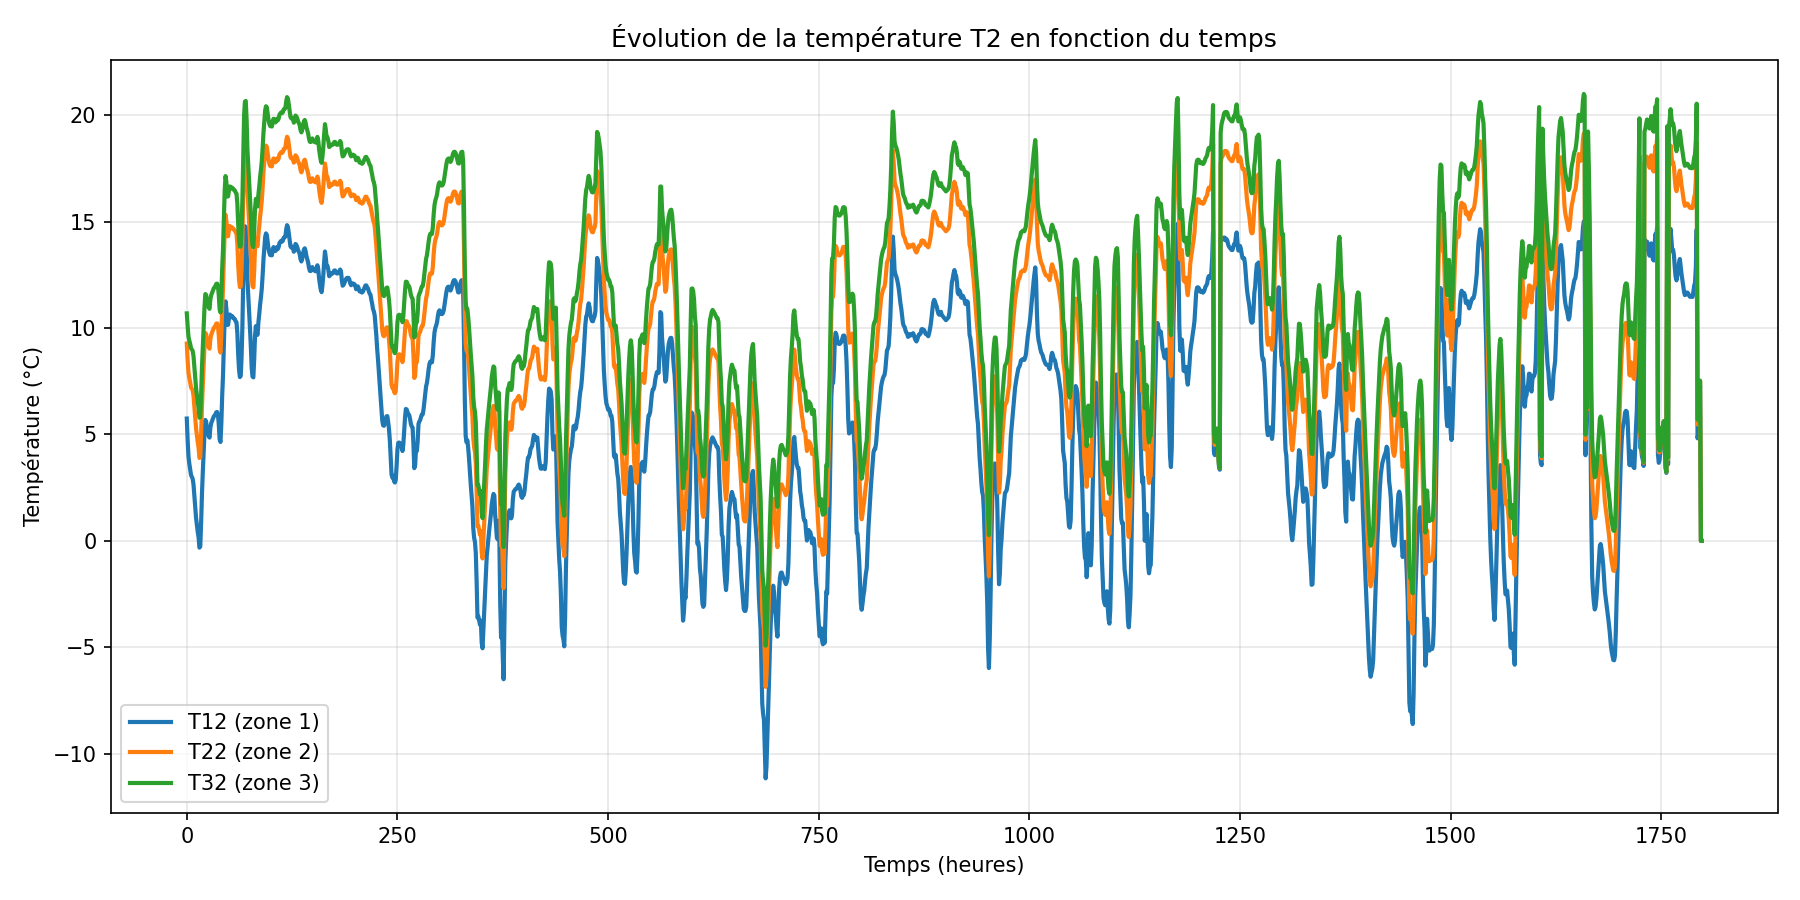
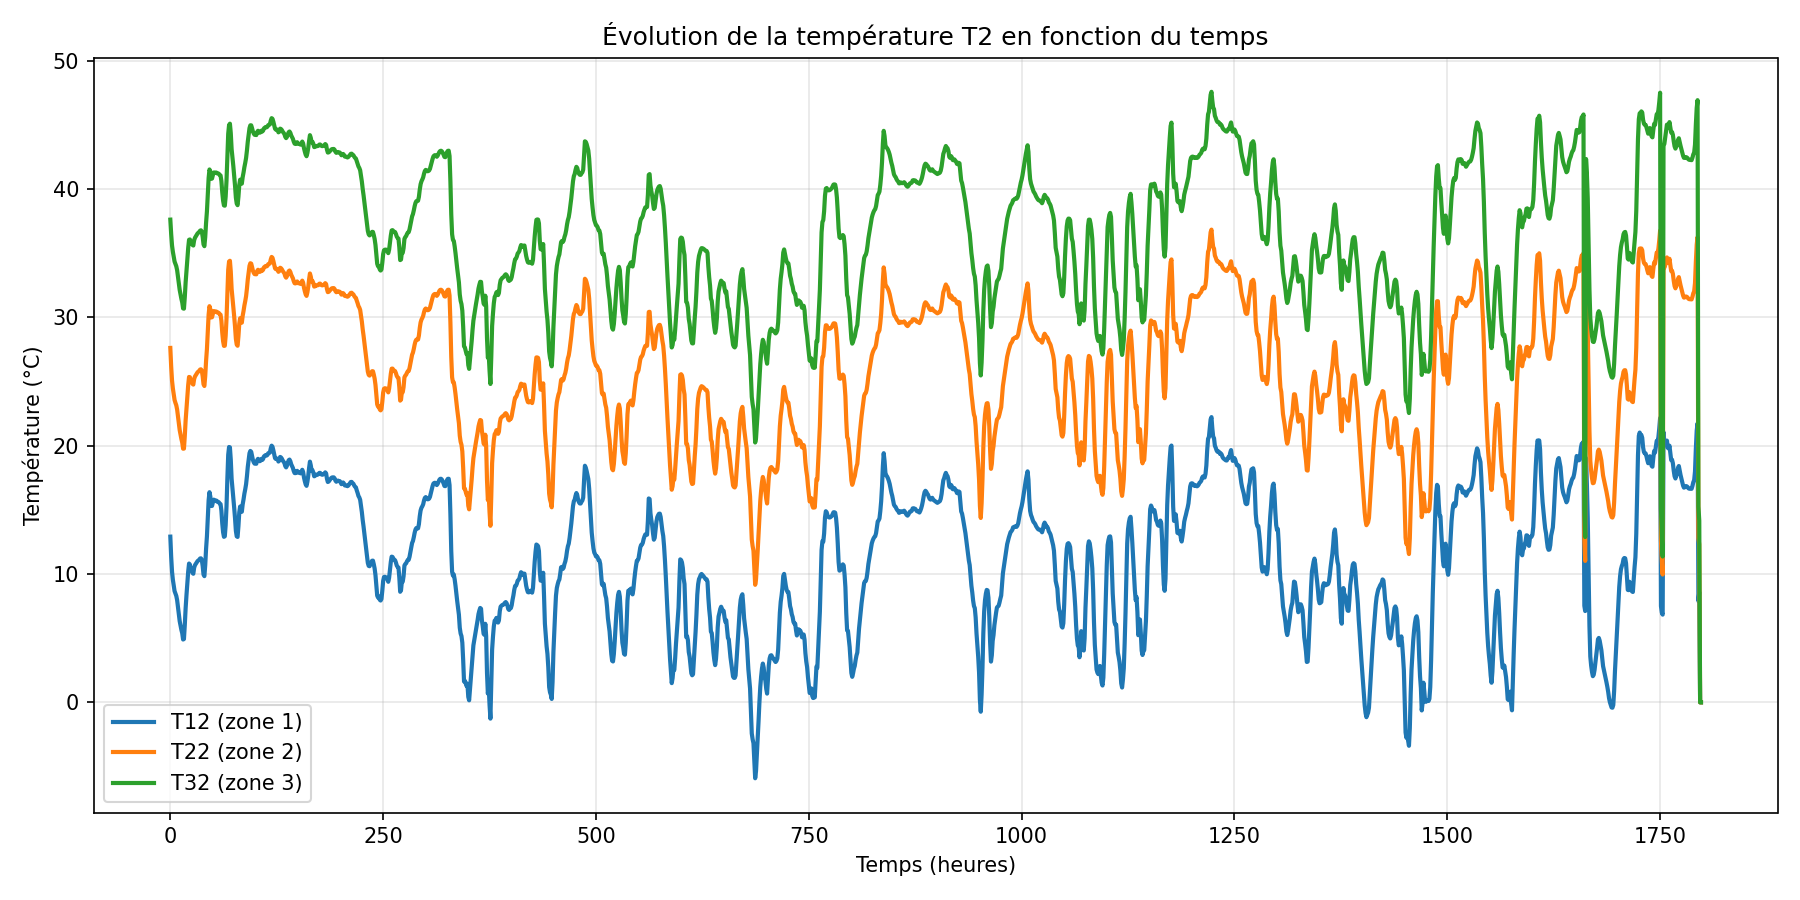
simulation v11

diff --git a/Simulation.py b/Simulation.py
@@ -1,11 +1,16 @@
-import matplotlib.pyplot as plt
-import pandas as pd
-import numpy as np
-from datetime import datetime
-
-# Utiliser un backend non-interactif pour éviter les problèmes
 import matplotlib
 matplotlib.use('Agg')
+import matplotlib.pyplot as plt
+import numpy as np
+import pandas as pd
+import gc
+import os
+
+# Supprimer les anciens graphiques
+if os.path.exists('T2_vs_temps.png'):
+    os.remove('T2_vs_temps.png')
+
+gc.collect()
 
 # Paramètres physiques
 Long = 26.1  # m
@@ -15,7 +20,7 @@ Haut = 1.7   # m
 unite1 = Long / 32
 unite2 = larg / 4
 
-cp = 1007        # J/kgK
+cp = 1007  # J/kgK
 e_dalle = 18 / 1000  # m
 A_section = larg * Long / 3
 e_beton = 0.4
@@ -24,10 +29,11 @@ A_mur12 = Haut * (20 * unite1 + 10 * unite2)
 A_mur34 = Haut * (22 * unite1 + 8 * unite2)
 A_mur56 = Haut * (22 * unite1 + 10 * unite2)
 
-k_beton = 1.8   # W/mK
-h_air = 30      # W/m2K
-k_asph = 1.0    # W/mK
-k_acier = 50    # W/mK
+k_beton = 1.8  # W/mK
+h_air = 10     # W/m2K
+
+k_asph = 1.0   # W/mK
+k_acier = 50   # W/mK
 k_dalle = (8 * k_asph + 10 * k_acier) / 18
 
 C_vol = 2300 * 880  # J/m3K
@@ -61,11 +67,12 @@ T = np.zeros((nt - 1, 9))
 
 # Initialiser T avec une température de départ (20°C)
 for i in range(9):
-    T[0, i] = T_ext[0]
-    T[1, i] = T_ext[0]
+    T[0, i] = 35
+    T[1, i] = 35
 
 # Résolution
 for t in range(2, nt - 1):
+
     # Calculer les résistances à chaque itération
     Rcond = e_dalle / (k_dalle * A_section)
     Rconv = 1 / (h_air * A_section)
@@ -78,7 +85,7 @@ for t in range(2, nt - 1):
     Req2 = R_beton2 + 1 / (h_air * A_mur34)
     Req3 = R_beton3 + 1 / (h_air * A_mur56)
 
-    if T_ext[t] < 3:
+    if T_ext[t] < 5:
         q12 = q_heater_r + 2 * q_heater_b
         q34 = q_heater_r + q_heater_b
         q56 = q_heater_r + q_heater_b
@@ -98,31 +105,54 @@ for t in range(2, nt - 1):
             [((1 / Rconv) + (1 / Rcond)), -1 / Rconv, 0, 0, 0, 0, 0, 0, 0],  # Noeud 11
             [1 / Rconv,
              -((1 / Req1) + (1 / Rconv)) - cp * (a23 + a32 + (gap1 + gap12 + gap23 / 2)),
-             1 / Req1, cp * (a23 + a32), 0, 0, 0, 0, 0],  # Noeud 12
-            [0, -1 / Req1, ((C / dt) + (1 / Req1)), 0, 0, 0, 0, 0, 0],  # Noeud 13
-
-            [0, 0, 0, ((1 / Rconv) + (1 / Rcond)), -1 / Rconv, 0, 0, 0, 0],  # Noeud 21
-            [0, cp * (a32 + a23), 0, 1 / Rconv,
+             1 / Req1,
+             cp * (a23 + a32),
+             0, 0, 0, 0, 0],  # Noeud 12
+            [0,
+             -1 / Req1,
+             ((C / dt) + (1 / Req1)),
+             0, 0, 0, 0, 0, 0],  # Noeud 13
+            [0, 0, 0,
+             ((1 / Rconv) + (1 / Rcond)),
+             -1 / Rconv,
+             0, 0, 0, 0],  # Noeud 21
+            [0,
+             cp * (a32 + a23),
+             0,
+             1 / Rconv,
              -((1 / Req2) + (1 / Rconv)) - cp * (a32 + a23 + a45 + a54 + (gap23 / 2 + gap34 + gap45 / 2)),
-             1 / Req2, 0, cp * (a45 + a54), 0],  # Noeud 22
-            [0, 0, 0, 0, -1 / Req2, ((C / dt) + (1 / Req2)), 0, 0, 0],  # Noeud 23
-
-            [0, 0, 0, 0, 0, 0, ((1 / Rconv) + (1 / Rcond)), -1 / Rconv, 0],  # Noeud 31
-            [0, 0, 0, 0, cp * (a45 + a54), 0, 1 / Rconv,
+             1 / Req2,
+             0,
+             cp * (a45 + a54),
+             0],  # Noeud 22
+            [0, 0, 0,
+             0,
+             -1 / Req2,
+             ((C / dt) + (1 / Req2)),
+             0, 0, 0],  # Noeud 23
+            [0, 0, 0, 0, 0, 0,
+             ((1 / Rconv) + (1 / Rcond)),
+             -1 / Rconv,
+             0],  # Noeud 31
+            [0, 0, 0, 0,
+             cp * (a45 + a54),
+             0,
+             1 / Rconv,
              -((1 / Req3) + (1 / Rconv)) - cp * (a45 + a54 + (gap45 / 2 + gap56 + gap6)),
              1 / Req3],  # Noeud 32
-            [0, 0, 0, 0, 0, 0, 0, -1 / Req3, ((C / dt) + (1 / Req3))]  # Noeud 33
+            [0, 0, 0, 0, 0, 0,
+             0,
+             -1 / Req3,
+             ((C / dt) + (1 / Req3))]  # Noeud 33
         ], dtype=float)
 
         B = np.array([
             T_ext[t] / Rcond,
             -q12 - cp * (gap12 + gap23 / 2 + gap1) * T_ext[t],
             C * T[t - 1, 2] / dt,
-
             T_ext[t] / Rcond,
             -q34 - (gap23 / 2 + gap34 + gap45 / 2) * cp * T_ext[t],
             C * T[t - 1, 5] / dt,
-
             T_ext[t] / Rcond,
             -q56 - (gap45 / 2 + gap56 + gap6) * cp * T_ext[t],
             C * T[t - 1, 8] / dt
@@ -148,31 +178,54 @@ for t in range(2, nt - 1):
             [((1 / Rconv) + (1 / Rcond)), -1 / Rconv, 0, 0, 0, 0, 0, 0, 0],  # Noeud 11
             [1 / Rconv,
              -((1 / Req1) + (1 / Rconv)) - cp * (a23 + a32 + (gap1 + gap12 + gap23 / 2)),
-             1 / Req1, cp * (a23 + a32), 0, 0, 0, 0, 0],  # Noeud 12
-            [0, -1 / Req1, ((C / dt) + (1 / Req1)), 0, 0, 0, 0, 0, 0],  # Noeud 13
-
-            [0, 0, 0, ((1 / Rconv) + (1 / Rcond)), -1 / Rconv, 0, 0, 0, 0],  # Noeud 21
-            [0, cp * (a32 + a23), 0, 1 / Rconv,
+             1 / Req1,
+             cp * (a23 + a32),
+             0, 0, 0, 0, 0],  # Noeud 12
+            [0,
+             -1 / Req1,
+             ((C / dt) + (1 / Req1)),
+             0, 0, 0, 0, 0, 0],  # Noeud 13
+            [0, 0, 0,
+             ((1 / Rconv) + (1 / Rcond)),
+             -1 / Rconv,
+             0, 0, 0, 0],  # Noeud 21
+            [0,
+             cp * (a32 + a23),
+             0,
+             1 / Rconv,
              -((1 / Req2) + (1 / Rconv)) - cp * (a32 + a23 + a45 + a54 + (gap23 / 2 + gap34 + gap45 / 2)),
-             1 / Req2, 0, cp * (a45 + a54), 0],  # Noeud 22
-            [0, 0, 0, 0, -1 / Req2, ((C / dt) + (1 / Req2)), 0, 0, 0],  # Noeud 23
-
-            [0, 0, 0, 0, 0, 0, ((1 / Rconv) + (1 / Rcond)), -1 / Rconv, 0],  # Noeud 31
-            [0, 0, 0, 0, cp * (a45 + a54), 0, 1 / Rconv,
+             1 / Req2,
+             0,
+             cp * (a45 + a54),
+             0],  # Noeud 22
+            [0, 0, 0,
+             0,
+             -1 / Req2,
+             ((C / dt) + (1 / Req2)),
+             0, 0, 0],  # Noeud 23
+            [0, 0, 0, 0, 0, 0,
+             ((1 / Rconv) + (1 / Rcond)),
+             -1 / Rconv,
+             0],  # Noeud 31
+            [0, 0, 0, 0,
+             cp * (a45 + a54),
+             0,
+             1 / Rconv,
              -((1 / Req3) + (1 / Rconv)) - cp * (a45 + a54 + (gap45 / 2 + gap56 + gap6)),
              1 / Req3],  # Noeud 32
-            [0, 0, 0, 0, 0, 0, 0, -1 / Req3, ((C / dt) + (1 / Req3))]  # Noeud 33
+            [0, 0, 0, 0, 0, 0,
+             0,
+             -1 / Req3,
+             ((C / dt) + (1 / Req3))]  # Noeud 33
         ], dtype=float)
 
         B = np.array([
             T_ext[t] / Rcond,
             -q12 - cp * (gap12 + gap23 / 2 + gap1) * T_ext[t],
             C * T[t - 1, 2] / dt,
-
             T_ext[t] / Rcond,
             -q34 - (gap23 / 2 + gap34 + gap45 / 2) * cp * T_ext[t],
             C * T[t - 1, 5] / dt,
-
             T_ext[t] / Rcond,
             -q56 - (gap45 / 2 + gap56 + gap6) * cp * T_ext[t],
             C * T[t - 1, 8] / dt
@@ -193,14 +246,10 @@ for t in range(2, nt - 1):
     T3[n, 1] = T[t, 5]  # T23
     T3[n, 2] = T[t, 8]  # T33
 
-print("T2 = ")
-print(T2)
-
-print("\nT3 = ")
-print(T3)
+# Ne pas afficher les grandes matrices en console pour obtenir seulement le graphique
 
 # Graphique de T2 en fonction du temps
-print("\nCréation du graphique T2...")
+print("Création du graphique T2...")
 temps_heures = np.arange(len(T2))
 
 plt.figure(figsize=(12, 6))
@@ -215,5 +264,4 @@ plt.legend()
 plt.grid(True, alpha=0.3)
 plt.tight_layout()
 plt.savefig('T2_vs_temps.png', dpi=150)
-
 print("Graphique T2 sauvegardé en tant que 'T2_vs_temps.png'")
